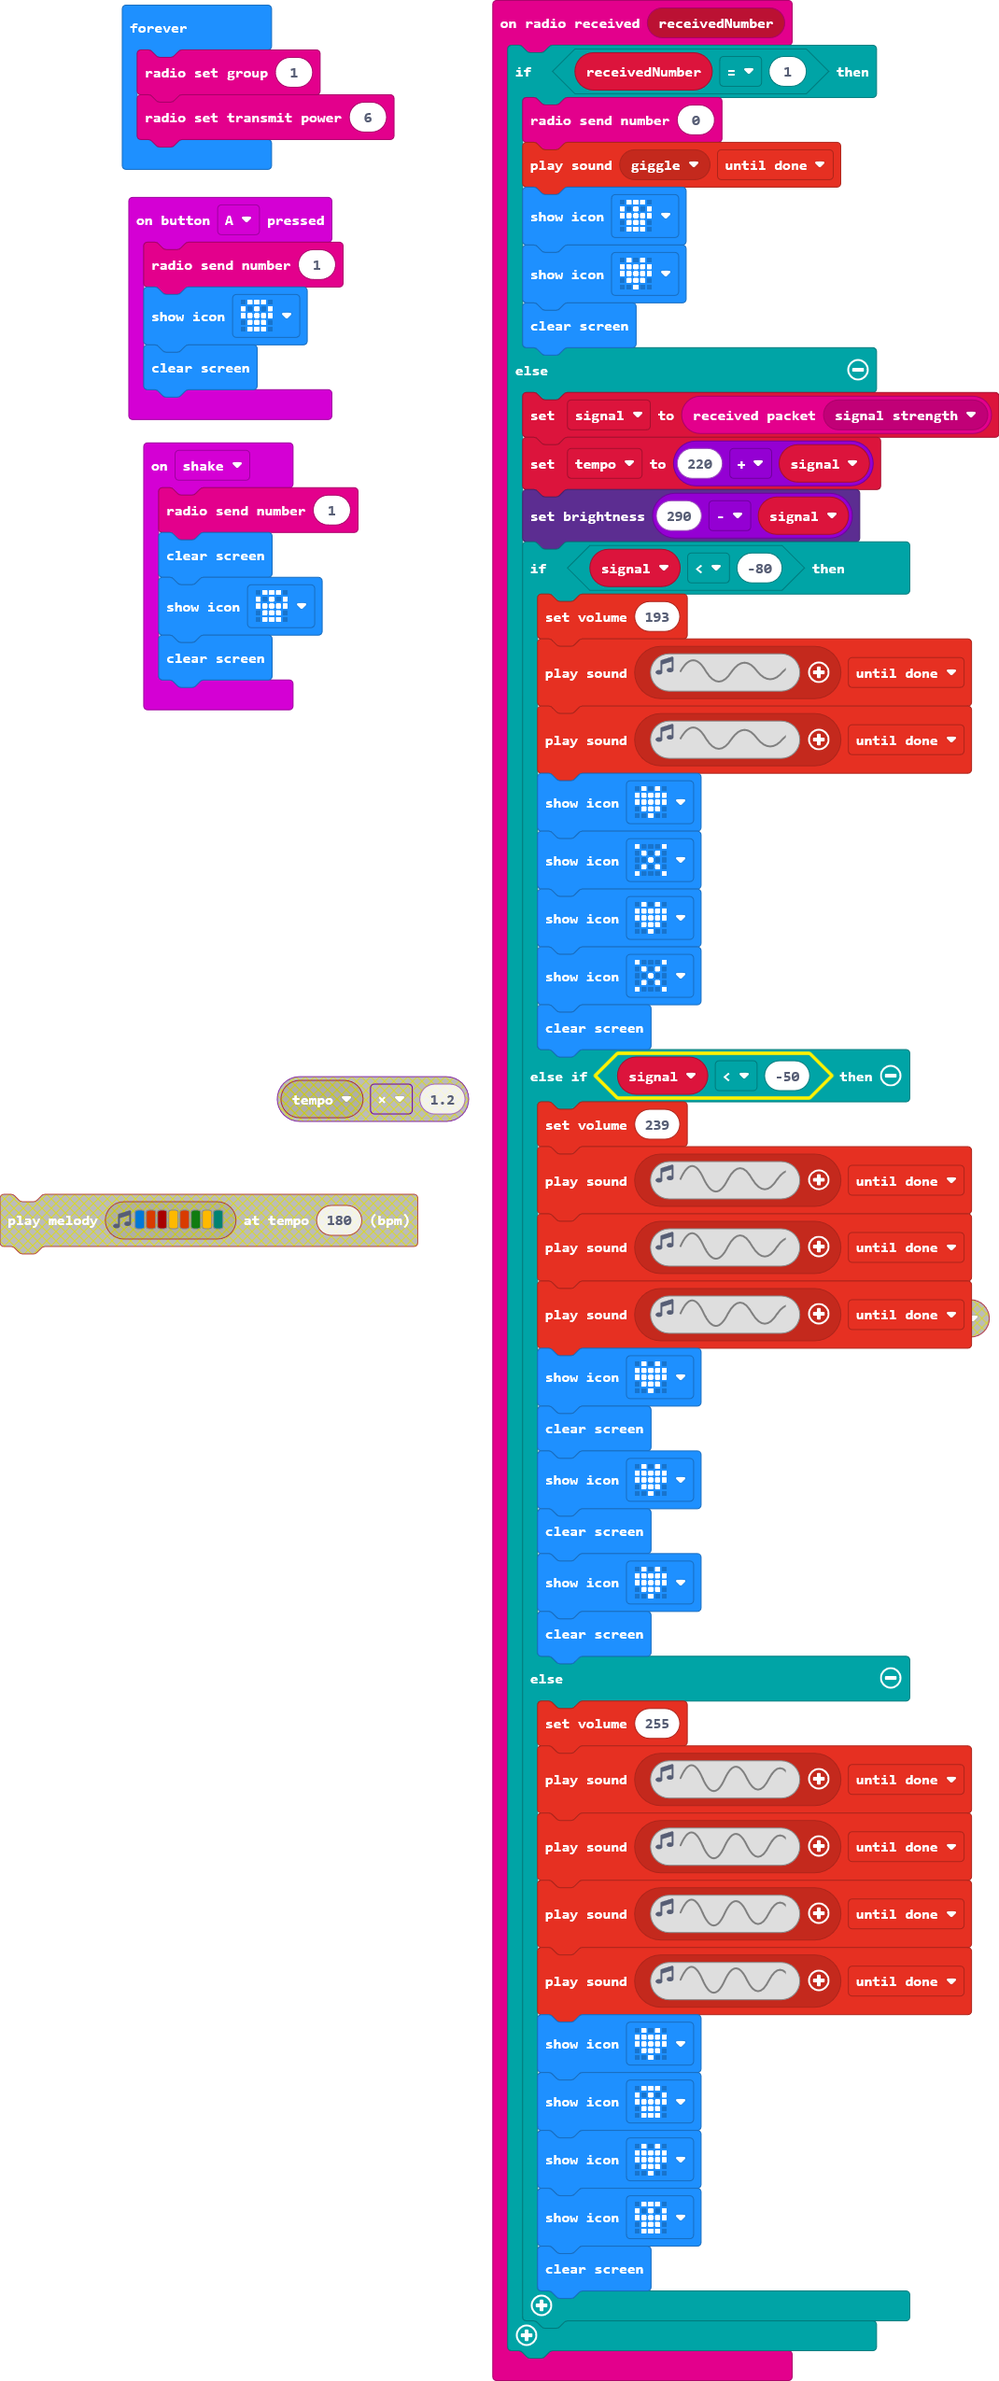
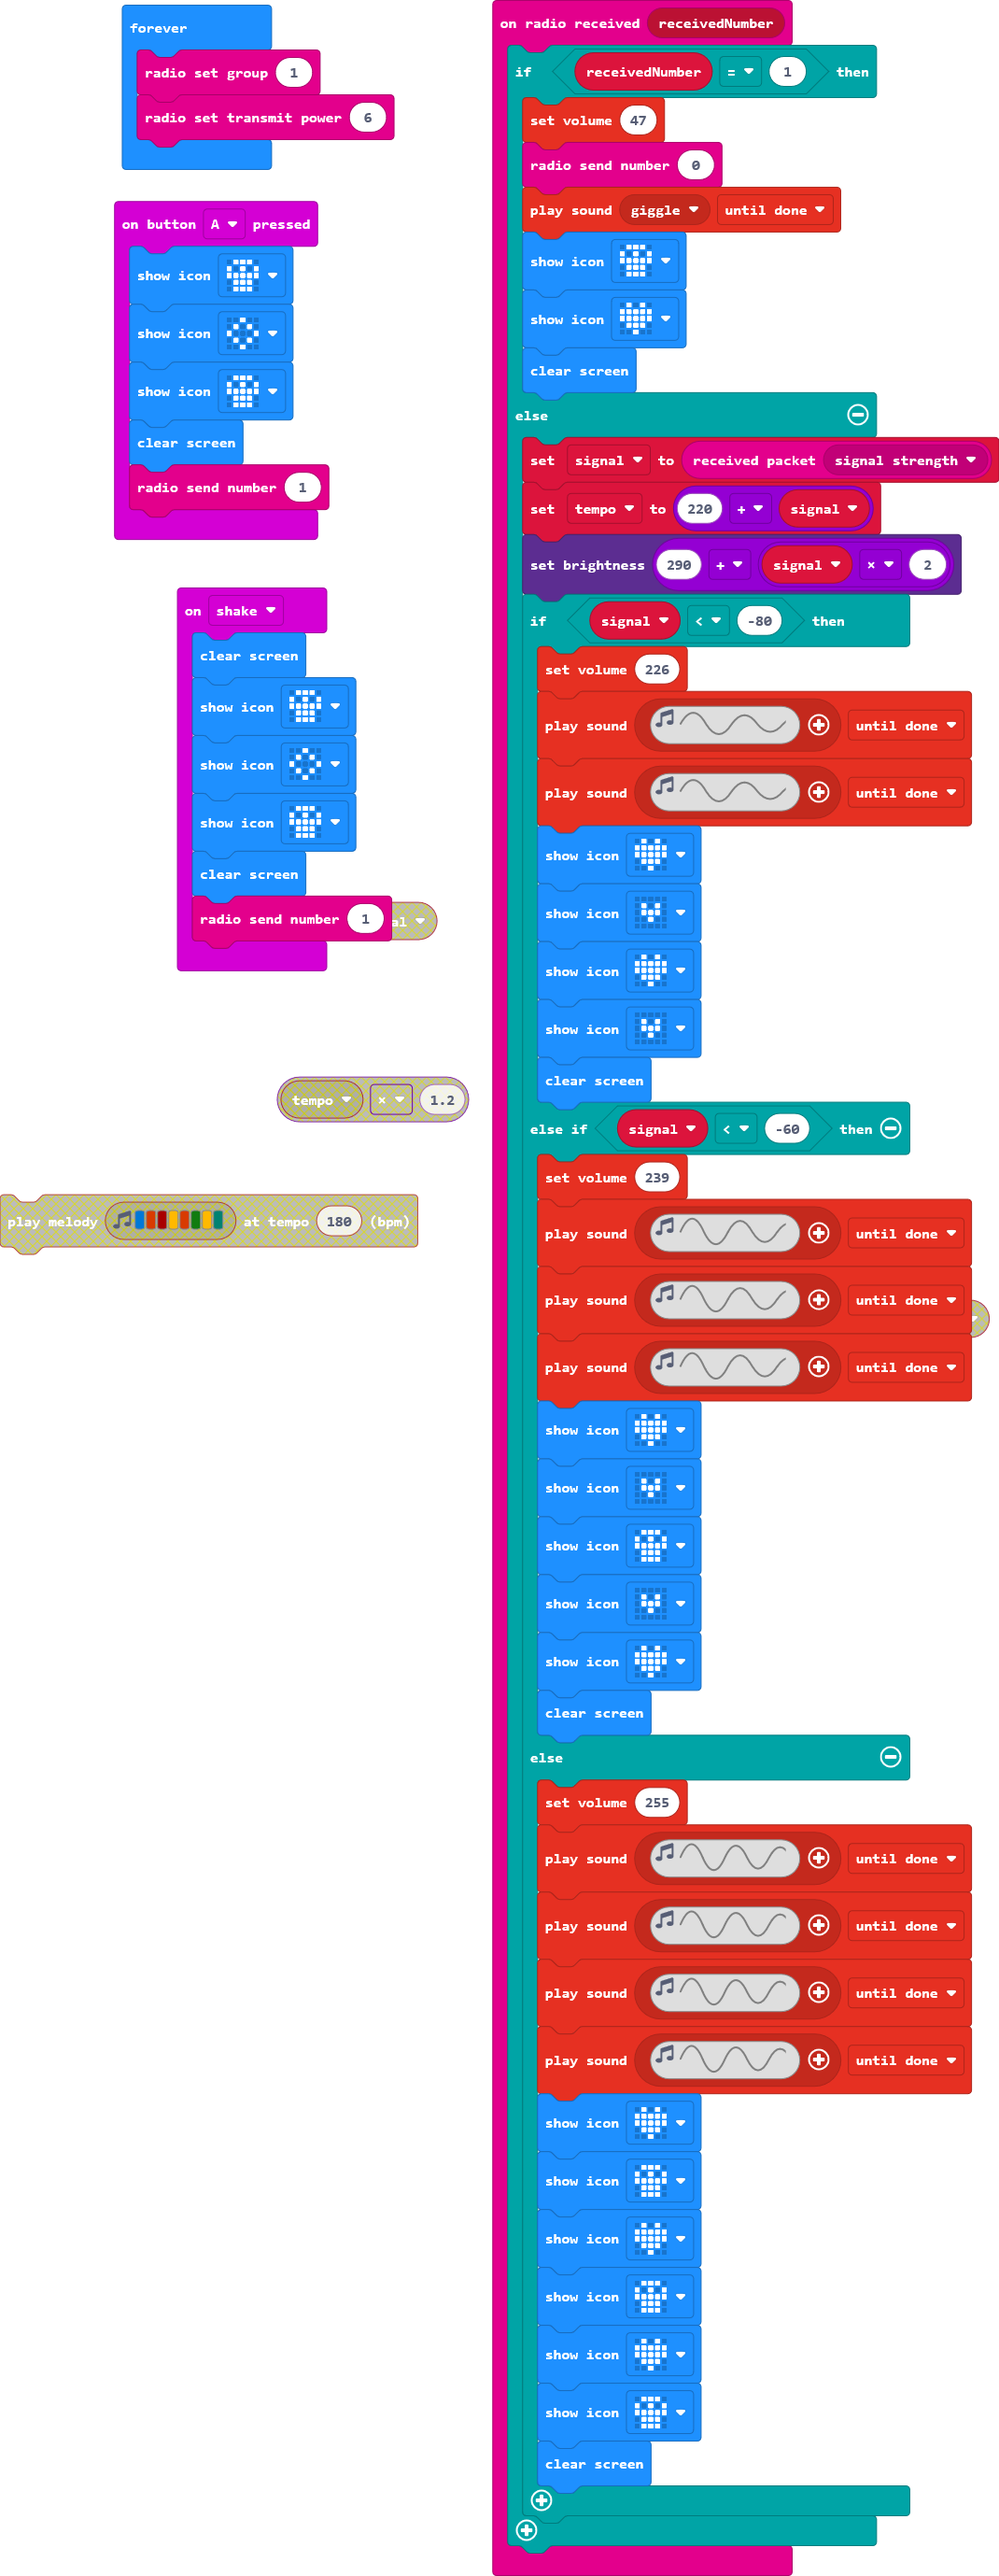
Update main.ts, main.blocks

Changed region(s): [[0.5243, 0.0, 1.0, 0.9914], [0.0, 0.0, 0.4626, 0.5267]]

diff --git a/main.ts b/main.ts
@@ -2,6 +2,7 @@ let signal = 0
 let tempo = 0
 radio.onReceivedNumber(function (receivedNumber) {
     if (receivedNumber == 1) {
+        music.setVolume(47)
         radio.sendNumber(0)
         music.playSoundEffect(music.builtinSoundEffect(soundExpression.giggle), SoundExpressionPlayMode.UntilDone)
         basic.showIcon(IconNames.Skull)
@@ -10,25 +11,25 @@ radio.onReceivedNumber(function (receivedNumber) {
     } else {
         signal = radio.receivedPacket(RadioPacketProperty.SignalStrength)
         tempo = 220 + signal
-        led.setBrightness(290 - signal)
+        led.setBrightness(290 + signal * 2)
         if (signal < -80) {
-            music.setVolume(193)
+            music.setVolume(226)
             music.playSoundEffect(music.createSoundEffect(WaveShape.Sine, 500, 500, 216, 117, 800, SoundExpressionEffect.Vibrato, InterpolationCurve.Linear), SoundExpressionPlayMode.UntilDone)
             music.playSoundEffect(music.createSoundEffect(WaveShape.Sine, 500, 500, 216, 117, 800, SoundExpressionEffect.Vibrato, InterpolationCurve.Linear), SoundExpressionPlayMode.UntilDone)
             basic.showIcon(IconNames.Heart)
-            basic.showIcon(IconNames.No)
+            basic.showIcon(IconNames.SmallHeart)
             basic.showIcon(IconNames.Heart)
-            basic.showIcon(IconNames.No)
+            basic.showIcon(IconNames.SmallHeart)
             basic.clearScreen()
-        } else if (signal < -50) {
+        } else if (signal < -60) {
             music.setVolume(239)
             music.playSoundEffect(music.createSoundEffect(WaveShape.Sine, 954, 508, 255, 157, 500, SoundExpressionEffect.Warble, InterpolationCurve.Linear), SoundExpressionPlayMode.UntilDone)
             music.playSoundEffect(music.createSoundEffect(WaveShape.Sine, 954, 508, 255, 157, 500, SoundExpressionEffect.Warble, InterpolationCurve.Linear), SoundExpressionPlayMode.UntilDone)
             music.playSoundEffect(music.createSoundEffect(WaveShape.Sine, 954, 508, 255, 157, 500, SoundExpressionEffect.Warble, InterpolationCurve.Linear), SoundExpressionPlayMode.UntilDone)
             basic.showIcon(IconNames.Heart)
-            basic.clearScreen()
-            basic.showIcon(IconNames.Heart)
-            basic.clearScreen()
+            basic.showIcon(IconNames.SmallHeart)
+            basic.showIcon(IconNames.Skull)
+            basic.showIcon(IconNames.SmallHeart)
             basic.showIcon(IconNames.Heart)
             basic.clearScreen()
         } else {
@@ -41,20 +42,26 @@ radio.onReceivedNumber(function (receivedNumber) {
             basic.showIcon(IconNames.Skull)
             basic.showIcon(IconNames.Heart)
             basic.showIcon(IconNames.Skull)
+            basic.showIcon(IconNames.Heart)
+            basic.showIcon(IconNames.Skull)
             basic.clearScreen()
         }
     }
 })
 input.onButtonPressed(Button.A, function () {
-    radio.sendNumber(1)
+    basic.showIcon(IconNames.Skull)
+    basic.showIcon(IconNames.Diamond)
     basic.showIcon(IconNames.Skull)
     basic.clearScreen()
+    radio.sendNumber(1)
 })
 input.onGesture(Gesture.Shake, function () {
-    radio.sendNumber(1)
     basic.clearScreen()
     basic.showIcon(IconNames.Skull)
+    basic.showIcon(IconNames.Diamond)
+    basic.showIcon(IconNames.Skull)
     basic.clearScreen()
+    radio.sendNumber(1)
 })
 basic.forever(function () {
     radio.setGroup(1)
